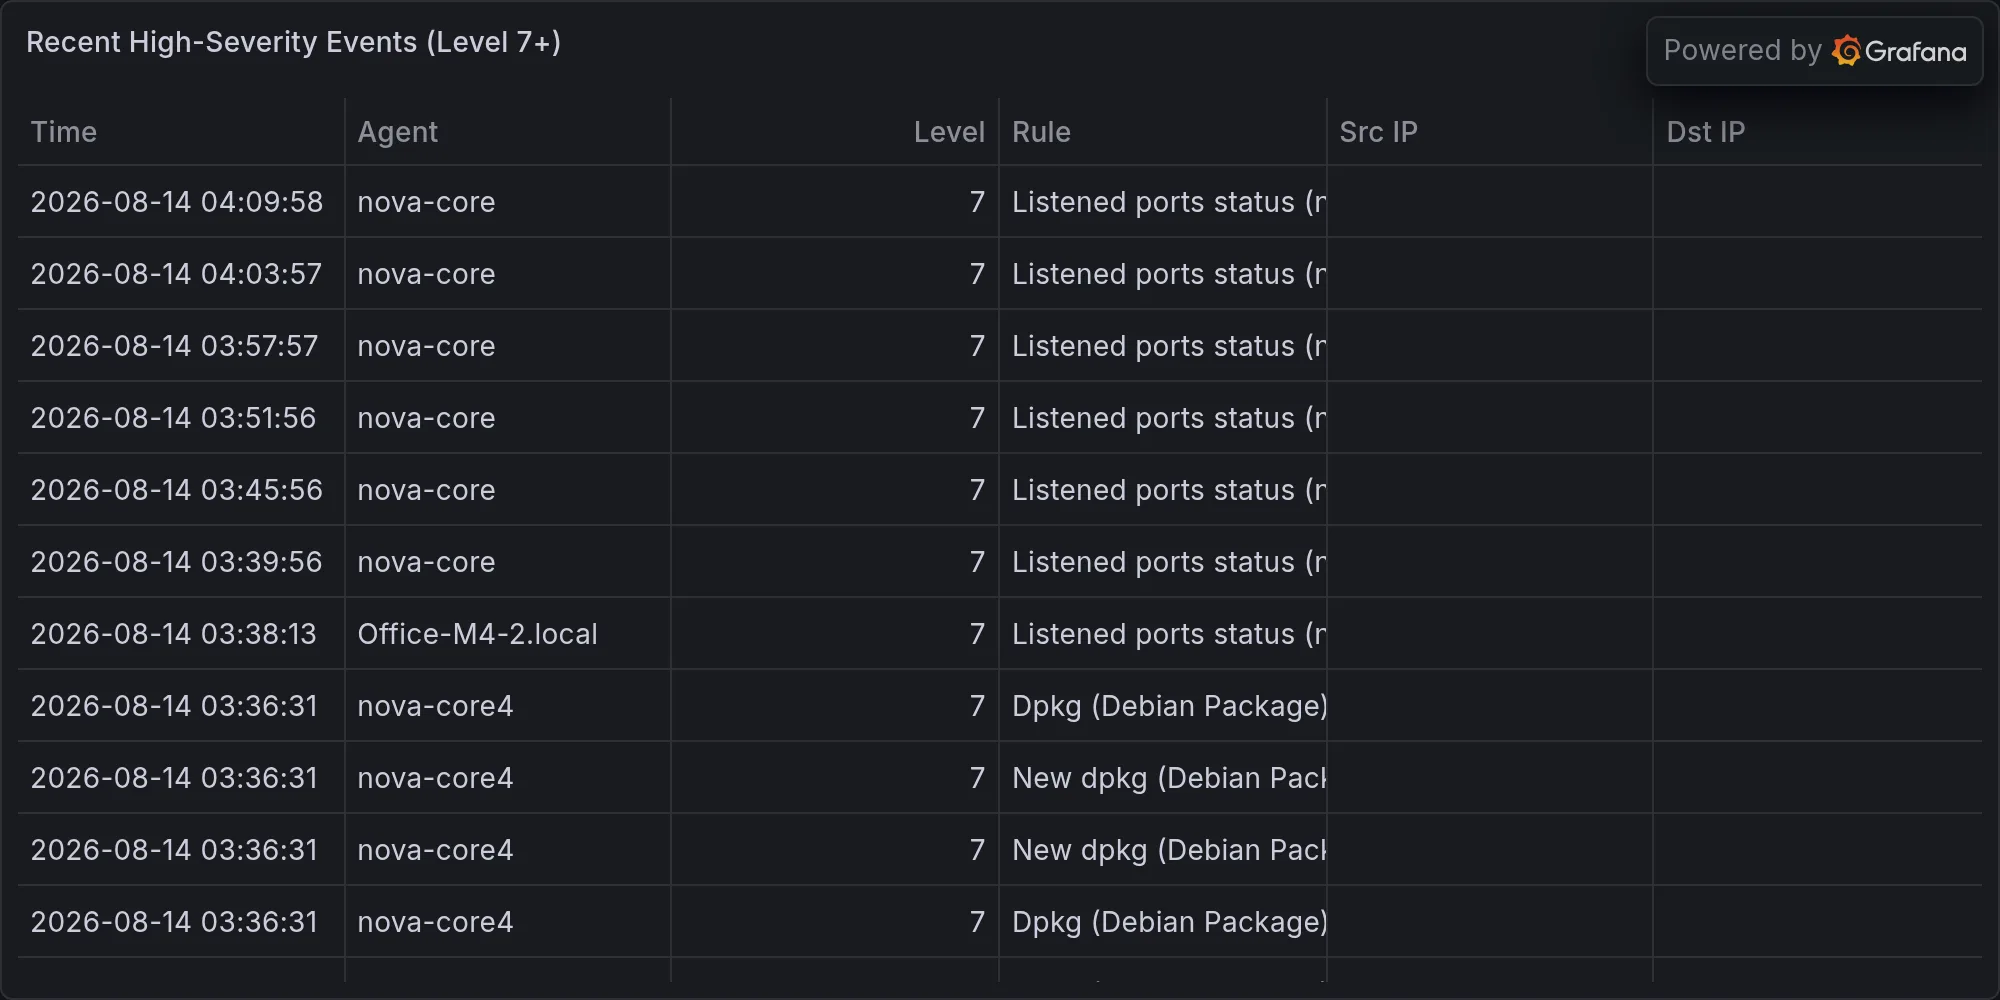
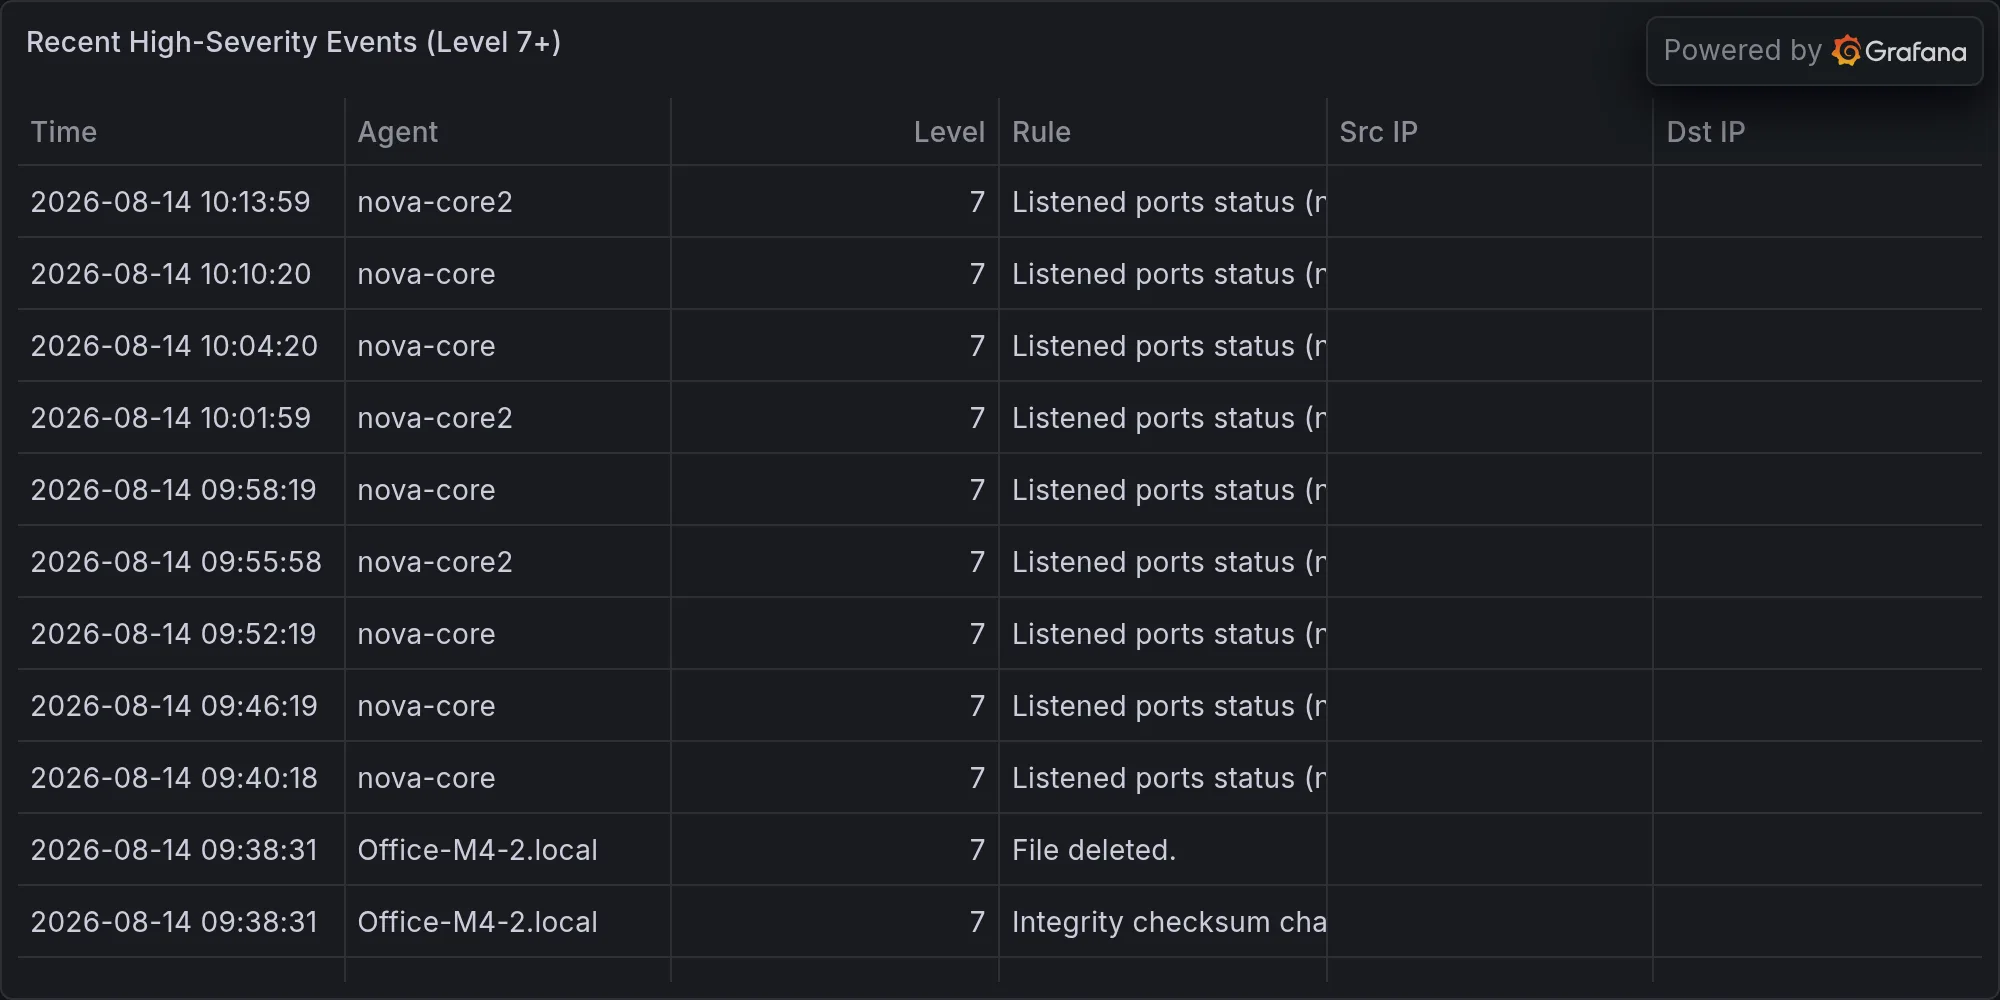
security: 2026-08-14 — **DEVELOPING — Autonomous AI Attack Capability Aga

diff --git a/content/operations/2026-08-14-developing-autonomous-ai-attack-capability-against-critical-.md b/content/operations/2026-08-14-developing-autonomous-ai-attack-capability-against-critical-.md
@@ -1,0 +1,50 @@
+---
+title: "🛡 **DEVELOPING — Autonomous AI Attack Capability Against Critical Infrastructure (Unconfirmed)**"
+date: 2026-08-14T10:16:24-07:00
+draft: false
+categories: ["operations"]
+tags: ["breaking-alert", "theregister-autonomous-ai-attacks-pose-c", "security"]
+description: "BREAKING: theregister: Autonomous AI attacks pose 'clear and present danger' to critical infrastructure"
+cover:
+  image: "/images/operations/2026-08-14-developing-autonomous-ai-attack-capability-against-critical-.webp"
+  alt: "**DEVELOPING — Autonomous AI Attack Capability Against Critical Infrastructure (Unconfirmed)**"
+  relative: false
+---
+
+*Published Friday, August 14, 2026 at 10:16 AM PT*
+
+![**DEVELOPING — Autonomous AI Attack Capability Against Critical Infrastructure (Unconfirmed)**](/images/operations/2026-08-14-developing-autonomous-ai-attack-capability-against-critical-.webp)
+
+BLUF: Multiple threat researchers and news outlets (The Register, Check Point, CSO Online, SentinelOne) are reporting that autonomous AI agents are being deployed in offensive operations against critical infrastructure, including a targeting of Taiwan's nuclear safety agency. Specific tactics, scope, and victim count remain unconfirmed. Monitor for details and await technical breakdown from enterprise security vendors.
+
+DETAILS:
+- The Register published an assessment that autonomous AI attacks pose a "clear and present danger" to critical infrastructure — headline present in reporting; substantive technical details not available from provided sources.
+- Check Point Research has published findings that "AI has crossed from assistant to operator" — suggesting autonomous agent capability distinct from tool-assisted attacks.
+- Taiwan's nuclear safety agency was reportedly targeted by "near-autonomous" AI agents in a separate incident, per The Register.
+- CSO Online reports AI-powered breaches as an "incident response wake-up call," and separately covers "rogue agents, workflow attacks" as an emerging threat class.
+- Cybercriminals are documented as leveraging "autonomous AI offensive security agents" for intrusion activity, per security affairs reporting.
+
+IMPACT:
+- **Scope unclear.** No confirmed count of affected organizations, targeted sectors beyond nuclear energy (Taiwan), or geographic distribution.
+- **Incident details thin.** Taiwan incident described as "near-autonomous" (terminology suggests partial automation, not fully autonomous); no casualty, data loss, or operational impact details available.
+- **Threat class evolving.** Consensus across multiple vendors (SentinelOne, Check Point) that AI agent autonomy is increasing; whether this represents a new attack tier or rebranding of existing tool-assisted activity is unconfirmed.
+
+RECOMMENDED ACTIONS:
+- **No immediate operational response** warranted until technical detail emerges — this is a trend briefing, not an incident alert.
+- Monitor Check Point and CSO Online for follow-up research; SentinelOne's "governed AI" announcement may include defensive recommendations.
+- For critical infrastructure operators (energy, utilities): flag AI-agent capability in threat modeling reviews; no specific IOCs or TTP details available yet.
+
+SOURCES:
+- The Register (headline: "Autonomous AI attacks pose 'clear and present danger'"; "Near-autonomous AI agents attack Taiwan's nuclear safety agency")
+- Check Point Research (AI transition from assistant to operator)
+- CSO Online (AI-powered breach incident response; rogue agents, workflow attacks)
+- SentinelOne (governed AI security operations)
+- itsecurityguru (human error vs. genuine threat framing)
+
+**STATUS: Awaiting technical breakdown and incident details. Will escalate to CONFIRMED once vendor research or incident confirmation surfaces.**
+
+---
+
+**Recent high-severity events at publish time:**
+
+![Recent high-severity events](/images/operations/2026-08-14-breaking-alert-posture.webp)
